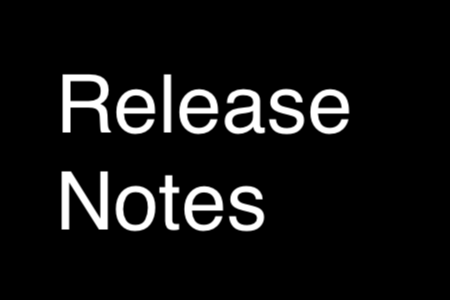
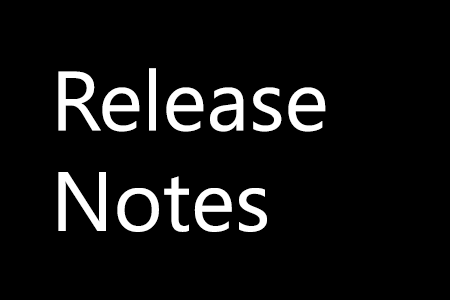
Removed en-us from the URL. Updated 'Release Notes' image with proper font.

Changed region(s): [[0.1244, 0.21, 0.7778, 0.45], [0.1244, 0.57, 0.5911, 0.78]]

diff --git a/README.md b/README.md
@@ -41,7 +41,7 @@ If you're an experienced Mixed Reality or MRTK developer, check the links in the
 
 # Documentation
 
-| [![Release notes](Documentation/Images/MRTK_Icon_ReleaseNotes.png)](https://docs.microsoft.com/en-us/windows/mixed-reality/mrtk-unity/release-notes/mrtk-26-release-notes)<br/>[Release Notes](https://docs.microsoft.com/en-us/windows/mixed-reality/mrtk-unity/release-notes/mrtk-26-release-notes)| [![MRTK Overview](Documentation/Images/MRTK_Icon_ArchitectureOverview.png)](https://docs.microsoft.com/en-us/windows/mixed-reality/mrtk-unity/architecture/overview)<br/>[MRTK Overview](https://docs.microsoft.com/en-us/windows/mixed-reality/mrtk-unity/architecture/overview)| [![Feature Guides](Documentation/Images/MRTK_Icon_FeatureGuides.png)](https://docs.microsoft.com/en-us/windows/mixed-reality/mrtk-unity/features/ux-building-blocks/button)<br/>[Feature Guides](https://docs.microsoft.com/en-us/windows/mixed-reality/mrtk-unity/features/ux-building-blocks/button)| [![API Reference](Documentation/Images/MRTK_Icon_APIReference.png)](https://docs.microsoft.com/en-us/dotnet/api/Microsoft.MixedReality.Toolkit?view=mixed-reality-toolkit-unity-2020-dotnet-2.6.0)<br/>[API Reference](https://docs.microsoft.com/en-us/dotnet/api/Microsoft.MixedReality.Toolkit?view=mixed-reality-toolkit-unity-2020-dotnet-2.6.0)|
+| [![Release notes](Documentation/Images/MRTK_Icon_ReleaseNotes.png)](https://docs.microsoft.com/windows/mixed-reality/mrtk-unity/release-notes/mrtk-26-release-notes)<br/>[Release Notes](https://docs.microsoft.com/windows/mixed-reality/mrtk-unity/release-notes/mrtk-26-release-notes)| [![MRTK Overview](Documentation/Images/MRTK_Icon_ArchitectureOverview.png)](https://docs.microsoft.com/windows/mixed-reality/mrtk-unity/architecture/overview)<br/>[MRTK Overview](https://docs.microsoft.com/windows/mixed-reality/mrtk-unity/architecture/overview)| [![Feature Guides](Documentation/Images/MRTK_Icon_FeatureGuides.png)](https://docs.microsoft.com/windows/mixed-reality/mrtk-unity/features/ux-building-blocks/button)<br/>[Feature Guides](https://docs.microsoft.com/windows/mixed-reality/mrtk-unity/features/ux-building-blocks/button)| [![API Reference](Documentation/Images/MRTK_Icon_APIReference.png)](https://docs.microsoft.com/dotnet/api/Microsoft.MixedReality.Toolkit?view=mixed-reality-toolkit-unity-2020-dotnet-2.6.0)<br/>[API Reference](https://docs.microsoft.com/dotnet/api/Microsoft.MixedReality.Toolkit?view=mixed-reality-toolkit-unity-2020-dotnet-2.6.0)|
 |:---|:---|:---|:---|
 
 # Build status
@@ -58,36 +58,36 @@ If you're an experienced Mixed Reality or MRTK developer, check the links in the
 
 # Feature areas
 
-| ![Input System](Documentation/Images/MRTK_Icon_InputSystem.png) [Input System](https://docs.microsoft.com/en-us/windows/mixed-reality/mrtk-unity/features/input/overview)<br/>&nbsp;  | ![Hand Tracking<br/> (HoloLens 2)](Documentation/Images/MRTK_Icon_HandTracking.png) [Hand Tracking<br/> (HoloLens 2)](https://docs.microsoft.com/en-us/windows/mixed-reality/mrtk-unity/features/input/hand-tracking) | ![Eye Tracking<br/> (HoloLens 2)](Documentation/Images/MRTK_Icon_EyeTracking.png) [Eye Tracking<br/> (HoloLens 2)](https://docs.microsoft.com/en-us/windows/mixed-reality/mrtk-unity/features/input/eye-tracking/eye-tracking-main) | ![Profiles](Documentation/Images/MRTK_Icon_Profiles.png) [Profiles](https://docs.microsoft.com/en-us/windows/mixed-reality/mrtk-unity/configuration/mixed-reality-configuration-guide)<br/>&nbsp; | ![Hand Tracking<br/> (Ultraleap)](Documentation/Images/MRTK_Icon_HandTracking.png) [Hand Tracking (Ultraleap)](https://docs.microsoft.com/en-us/windows/mixed-reality/mrtk-unity/features/cross-platform/leap-motion-mrtk)|
+| ![Input System](Documentation/Images/MRTK_Icon_InputSystem.png) [Input System](https://docs.microsoft.com/windows/mixed-reality/mrtk-unity/features/input/overview)<br/>&nbsp;  | ![Hand Tracking<br/> (HoloLens 2)](Documentation/Images/MRTK_Icon_HandTracking.png) [Hand Tracking<br/> (HoloLens 2)](https://docs.microsoft.com/windows/mixed-reality/mrtk-unity/features/input/hand-tracking) | ![Eye Tracking<br/> (HoloLens 2)](Documentation/Images/MRTK_Icon_EyeTracking.png) [Eye Tracking<br/> (HoloLens 2)](https://docs.microsoft.com/windows/mixed-reality/mrtk-unity/features/input/eye-tracking/eye-tracking-main) | ![Profiles](Documentation/Images/MRTK_Icon_Profiles.png) [Profiles](https://docs.microsoft.com/windows/mixed-reality/mrtk-unity/configuration/mixed-reality-configuration-guide)<br/>&nbsp; | ![Hand Tracking<br/> (Ultraleap)](Documentation/Images/MRTK_Icon_HandTracking.png) [Hand Tracking (Ultraleap)](https://docs.microsoft.com/windows/mixed-reality/mrtk-unity/features/cross-platform/leap-motion-mrtk)|
 | :--- | :--- | :--- | :--- | :--- |
-| ![UI Controls](Documentation/Images/MRTK_Icon_UIControls.png) [UI Controls](https://docs.microsoft.com/en-us/windows/mixed-reality/mrtk-unity/#ux-building-blocks)<br/>&nbsp; | ![Solvers](Documentation/Images/MRTK_Icon_Solver.png) [Solvers](https://docs.microsoft.com/en-us/windows/mixed-reality/mrtk-unity/features/ux-building-blocks/solvers/solver)<br/>&nbsp; | ![Multi-Scene<br/> Manager](Documentation/Images/MRTK_Icon_SceneSystem.png) [Multi-Scene<br/> Manager](https://docs.microsoft.com/en-us/windows/mixed-reality/mrtk-unity/features/scene-system/scene-system-getting-started) | ![Spatial<br/> Awareness](Documentation/Images/MRTK_Icon_SpatialUnderstanding.png) [Spatial<br/> Awareness](https://docs.microsoft.com/en-us/windows/mixed-reality/mrtk-unity/features/spatial-awareness/spatial-awareness-getting-started) | ![Diagnostic<br/> Tool](Documentation/Images/MRTK_Icon_Diagnostics.png) [Diagnostic<br/> Tool](https://docs.microsoft.com/en-us/windows/mixed-reality/mrtk-unity/features/diagnostics/diagnostics-system-getting-started) |
-| ![MRTK Standard Shader](Documentation/Images/MRTK_Icon_StandardShader.png) [MRTK Standard Shader](https://docs.microsoft.com/en-us/windows/mixed-reality/mrtk-unity/features/rendering/mrtk-standard-shader) | ![Speech & Dictation](Documentation/Images/MRTK_Icon_VoiceCommand.png) [Speech](https://docs.microsoft.com/en-us/windows/mixed-reality/mrtk-unity/features/input/speech)<br/> & [Dictation](https://docs.microsoft.com/en-us/windows/mixed-reality/mrtk-unity/features/input/dictation) | ![Boundary<br/>System](Documentation/Images/MRTK_Icon_Boundary.png) [Boundary<br/>System](https://docs.microsoft.com/en-us/windows/mixed-reality/mrtk-unity/features/boundary/boundary-system-getting-started)| ![In-Editor<br/>Simulation](Documentation/Images/MRTK_Icon_InputSystem.png) [In-Editor<br/>Simulation](https://docs.microsoft.com/en-us/windows/mixed-reality/mrtk-unity/features/input-simulation/input-simulation-service) | ![Experimental<br/>Features](Documentation/Images/MRTK_Icon_Experimental.png) [Experimental<br/>Features](https://docs.microsoft.com/en-us/windows/mixed-reality/mrtk-unity/contributing/experimental-features)|
+| ![UI Controls](Documentation/Images/MRTK_Icon_UIControls.png) [UI Controls](https://docs.microsoft.com/windows/mixed-reality/mrtk-unity/#ux-building-blocks)<br/>&nbsp; | ![Solvers](Documentation/Images/MRTK_Icon_Solver.png) [Solvers](https://docs.microsoft.com/windows/mixed-reality/mrtk-unity/features/ux-building-blocks/solvers/solver)<br/>&nbsp; | ![Multi-Scene<br/> Manager](Documentation/Images/MRTK_Icon_SceneSystem.png) [Multi-Scene<br/> Manager](https://docs.microsoft.com/windows/mixed-reality/mrtk-unity/features/scene-system/scene-system-getting-started) | ![Spatial<br/> Awareness](Documentation/Images/MRTK_Icon_SpatialUnderstanding.png) [Spatial<br/> Awareness](https://docs.microsoft.com/windows/mixed-reality/mrtk-unity/features/spatial-awareness/spatial-awareness-getting-started) | ![Diagnostic<br/> Tool](Documentation/Images/MRTK_Icon_Diagnostics.png) [Diagnostic<br/> Tool](https://docs.microsoft.com/windows/mixed-reality/mrtk-unity/features/diagnostics/diagnostics-system-getting-started) |
+| ![MRTK Standard Shader](Documentation/Images/MRTK_Icon_StandardShader.png) [MRTK Standard Shader](https://docs.microsoft.com/windows/mixed-reality/mrtk-unity/features/rendering/mrtk-standard-shader) | ![Speech & Dictation](Documentation/Images/MRTK_Icon_VoiceCommand.png) [Speech](https://docs.microsoft.com/windows/mixed-reality/mrtk-unity/features/input/speech)<br/> & [Dictation](https://docs.microsoft.com/windows/mixed-reality/mrtk-unity/features/input/dictation) | ![Boundary<br/>System](Documentation/Images/MRTK_Icon_Boundary.png) [Boundary<br/>System](https://docs.microsoft.com/windows/mixed-reality/mrtk-unity/features/boundary/boundary-system-getting-started)| ![In-Editor<br/>Simulation](Documentation/Images/MRTK_Icon_InputSystem.png) [In-Editor<br/>Simulation](https://docs.microsoft.com/windows/mixed-reality/mrtk-unity/features/input-simulation/input-simulation-service) | ![Experimental<br/>Features](Documentation/Images/MRTK_Icon_Experimental.png) [Experimental<br/>Features](https://docs.microsoft.com/windows/mixed-reality/mrtk-unity/contributing/experimental-features)|
 
 # UX building blocks
 
-|  [![Button](Documentation/Images/Button/MRTK_Button_Main.png)](https://docs.microsoft.com/en-us/windows/mixed-reality/mrtk-unity/features/ux-building-blocks/button) [Button](https://docs.microsoft.com/en-us/windows/mixed-reality/mrtk-unity/features/ux-building-blocks/button) | [![Bounds Control](Documentation/Images/BoundsControl/MRTK_BoundsControl_Main.png)](https://docs.microsoft.com/en-us/windows/mixed-reality/mrtk-unity/features/ux-building-blocks/bounds-control) [Bounds Control](https://docs.microsoft.com/en-us/windows/mixed-reality/mrtk-unity/features/ux-building-blocks/bounds-control) | [![Object Manipulator](Documentation/Images/ManipulationHandler/MRTK_Manipulation_Main.png)](https://docs.microsoft.com/en-us/windows/mixed-reality/mrtk-unity/features/ux-building-blocks/object-manipulator) [Object Manipulator](https://docs.microsoft.com/en-us/windows/mixed-reality/mrtk-unity/features/ux-building-blocks/object-manipulator) |
+|  [![Button](Documentation/Images/Button/MRTK_Button_Main.png)](https://docs.microsoft.com/windows/mixed-reality/mrtk-unity/features/ux-building-blocks/button) [Button](https://docs.microsoft.com/windows/mixed-reality/mrtk-unity/features/ux-building-blocks/button) | [![Bounds Control](Documentation/Images/BoundsControl/MRTK_BoundsControl_Main.png)](https://docs.microsoft.com/windows/mixed-reality/mrtk-unity/features/ux-building-blocks/bounds-control) [Bounds Control](https://docs.microsoft.com/windows/mixed-reality/mrtk-unity/features/ux-building-blocks/bounds-control) | [![Object Manipulator](Documentation/Images/ManipulationHandler/MRTK_Manipulation_Main.png)](https://docs.microsoft.com/windows/mixed-reality/mrtk-unity/features/ux-building-blocks/object-manipulator) [Object Manipulator](https://docs.microsoft.com/windows/mixed-reality/mrtk-unity/features/ux-building-blocks/object-manipulator) |
 |:--- | :--- | :--- |
 | A button control which supports various input methods, including HoloLens 2's articulated hand | Standard UI for manipulating objects in 3D space | Script for manipulating objects with one or two hands |
-|  [![Slate](Documentation/Images/Slate/MRTK_Slate_Main.png)](https://docs.microsoft.com/en-us/windows/mixed-reality/mrtk-unity/features/ux-building-blocks/slate) [Slate](https://docs.microsoft.com/en-us/windows/mixed-reality/mrtk-unity/features/ux-building-blocks/slate) | [![System Keyboard](Documentation/Images/SystemKeyboard/MRTK_SystemKeyboard_Main.png)](https://docs.microsoft.com/en-us/windows/mixed-reality/mrtk-unity/features/ux-building-blocks/system-keyboard) [System Keyboard](https://docs.microsoft.com/en-us/windows/mixed-reality/mrtk-unity/features/ux-building-blocks/system-keyboard) | [![Interactable](Documentation/Images/Interactable/InteractableExamples.png)](https://docs.microsoft.com/en-us/windows/mixed-reality/mrtk-unity/features/ux-building-blocks/interactable) [Interactable](https://docs.microsoft.com/en-us/windows/mixed-reality/mrtk-unity/features/ux-building-blocks/interactable) |
+|  [![Slate](Documentation/Images/Slate/MRTK_Slate_Main.png)](https://docs.microsoft.com/windows/mixed-reality/mrtk-unity/features/ux-building-blocks/slate) [Slate](https://docs.microsoft.com/windows/mixed-reality/mrtk-unity/features/ux-building-blocks/slate) | [![System Keyboard](Documentation/Images/SystemKeyboard/MRTK_SystemKeyboard_Main.png)](https://docs.microsoft.com/windows/mixed-reality/mrtk-unity/features/ux-building-blocks/system-keyboard) [System Keyboard](https://docs.microsoft.com/windows/mixed-reality/mrtk-unity/features/ux-building-blocks/system-keyboard) | [![Interactable](Documentation/Images/Interactable/InteractableExamples.png)](https://docs.microsoft.com/windows/mixed-reality/mrtk-unity/features/ux-building-blocks/interactable) [Interactable](https://docs.microsoft.com/windows/mixed-reality/mrtk-unity/features/ux-building-blocks/interactable) |
 | 2D style plane which supports scrolling with articulated hand input | Example script of using the system keyboard in Unity  | A script for making objects interactable with visual states and theme support |
-|  [![Solver](Documentation/Images/Solver/MRTK_Solver_Main.png)](https://docs.microsoft.com/en-us/windows/mixed-reality/mrtk-unity/features/ux-building-blocks/solvers/solver) [Solver](https://docs.microsoft.com/en-us/windows/mixed-reality/mrtk-unity/features/ux-building-blocks/solvers/solver) | [![Object Collection](Documentation/Images/ObjectCollection/MRTK_ObjectCollection_Main.jpg)](https://docs.microsoft.com/en-us/windows/mixed-reality/mrtk-unity/features/ux-building-blocks/object-collection) [Object Collection](https://docs.microsoft.com/en-us/windows/mixed-reality/mrtk-unity/features/ux-building-blocks/object-collection) | [![Tooltip](Documentation/Images/Tooltip/MRTK_Tooltip_Main.png)](https://docs.microsoft.com/en-us/windows/mixed-reality/mrtk-unity/features/ux-building-blocks/tooltip) [Tooltip](https://docs.microsoft.com/en-us/windows/mixed-reality/mrtk-unity/features/ux-building-blocks/tooltip) |
+|  [![Solver](Documentation/Images/Solver/MRTK_Solver_Main.png)](https://docs.microsoft.com/windows/mixed-reality/mrtk-unity/features/ux-building-blocks/solvers/solver) [Solver](https://docs.microsoft.com/windows/mixed-reality/mrtk-unity/features/ux-building-blocks/solvers/solver) | [![Object Collection](Documentation/Images/ObjectCollection/MRTK_ObjectCollection_Main.jpg)](https://docs.microsoft.com/windows/mixed-reality/mrtk-unity/features/ux-building-blocks/object-collection) [Object Collection](https://docs.microsoft.com/windows/mixed-reality/mrtk-unity/features/ux-building-blocks/object-collection) | [![Tooltip](Documentation/Images/Tooltip/MRTK_Tooltip_Main.png)](https://docs.microsoft.com/windows/mixed-reality/mrtk-unity/features/ux-building-blocks/tooltip) [Tooltip](https://docs.microsoft.com/windows/mixed-reality/mrtk-unity/features/ux-building-blocks/tooltip) |
 | Various object positioning behaviors such as tag-along, body-lock, constant view size and surface magnetism | Script for laying out an array of objects in a three-dimensional shape | Annotation UI with a flexible anchor/pivot system, which can be used for labeling motion controllers and objects |
-|  [![Slider](Documentation/Images/Slider/MRTK_UX_Slider_Main.jpg)](https://docs.microsoft.com/en-us/windows/mixed-reality/mrtk-unity/features/ux-building-blocks/sliders) [Slider](https://docs.microsoft.com/en-us/windows/mixed-reality/mrtk-unity/features/ux-building-blocks/sliders) | [![MRTK Standard Shader](Documentation/Images/MRTKStandardShader/MRTK_StandardShader.jpg)](https://docs.microsoft.com/en-us/windows/mixed-reality/mrtk-unity/features/rendering/mrtk-standard-shader) [MRTK Standard Shader](https://docs.microsoft.com/en-us/windows/mixed-reality/mrtk-unity/features/rendering/mrtk-standard-shader) | [![Hand Menu](Documentation/Images/Solver/MRTK_UX_HandMenu.png)](https://docs.microsoft.com/en-us/windows/mixed-reality/mrtk-unity/features/ux-building-blocks/hand-menu) [Hand Menu](https://docs.microsoft.com/en-us/windows/mixed-reality/mrtk-unity/features/ux-building-blocks/hand-menu) |
+|  [![Slider](Documentation/Images/Slider/MRTK_UX_Slider_Main.jpg)](https://docs.microsoft.com/windows/mixed-reality/mrtk-unity/features/ux-building-blocks/sliders) [Slider](https://docs.microsoft.com/windows/mixed-reality/mrtk-unity/features/ux-building-blocks/sliders) | [![MRTK Standard Shader](Documentation/Images/MRTKStandardShader/MRTK_StandardShader.jpg)](https://docs.microsoft.com/windows/mixed-reality/mrtk-unity/features/rendering/mrtk-standard-shader) [MRTK Standard Shader](https://docs.microsoft.com/windows/mixed-reality/mrtk-unity/features/rendering/mrtk-standard-shader) | [![Hand Menu](Documentation/Images/Solver/MRTK_UX_HandMenu.png)](https://docs.microsoft.com/windows/mixed-reality/mrtk-unity/features/ux-building-blocks/hand-menu) [Hand Menu](https://docs.microsoft.com/windows/mixed-reality/mrtk-unity/features/ux-building-blocks/hand-menu) |
 | Slider UI for adjusting values supporting direct hand tracking interaction | MRTK's Standard shader supports various Fluent design elements with performance | Hand-locked UI for quick access, using the Hand Constraint Solver |
-|  [![App Bar](Documentation/Images/AppBar/MRTK_AppBar_Main.png)](https://docs.microsoft.com/en-us/windows/mixed-reality/mrtk-unity/features/ux-building-blocks/app-bar) [App Bar](https://docs.microsoft.com/en-us/windows/mixed-reality/mrtk-unity/features/ux-building-blocks/app-bar) | [![Pointers](Documentation/Images/Pointers/MRTK_Pointer_Main.png)](https://docs.microsoft.com/en-us/windows/mixed-reality/mrtk-unity/features/input/pointers) [Pointers](https://docs.microsoft.com/en-us/windows/mixed-reality/mrtk-unity/features/input/pointers) | [![Fingertip Visualization](Documentation/Images/Fingertip/MRTK_FingertipVisualization_Main.png)](https://docs.microsoft.com/en-us/windows/mixed-reality/mrtk-unity/features/ux-building-blocks/fingertip-visualization) [Fingertip Visualization](https://docs.microsoft.com/en-us/windows/mixed-reality/mrtk-unity/features/ux-building-blocks/fingertip-visualization) |
+|  [![App Bar](Documentation/Images/AppBar/MRTK_AppBar_Main.png)](https://docs.microsoft.com/windows/mixed-reality/mrtk-unity/features/ux-building-blocks/app-bar) [App Bar](https://docs.microsoft.com/windows/mixed-reality/mrtk-unity/features/ux-building-blocks/app-bar) | [![Pointers](Documentation/Images/Pointers/MRTK_Pointer_Main.png)](https://docs.microsoft.com/windows/mixed-reality/mrtk-unity/features/input/pointers) [Pointers](https://docs.microsoft.com/windows/mixed-reality/mrtk-unity/features/input/pointers) | [![Fingertip Visualization](Documentation/Images/Fingertip/MRTK_FingertipVisualization_Main.png)](https://docs.microsoft.com/windows/mixed-reality/mrtk-unity/features/ux-building-blocks/fingertip-visualization) [Fingertip Visualization](https://docs.microsoft.com/windows/mixed-reality/mrtk-unity/features/ux-building-blocks/fingertip-visualization) |
 | UI for Bounds Control's manual activation | Learn about various types of pointers | Visual affordance on the fingertip which improves the confidence for the direct interaction |
-|  [![Near Menu](Documentation/Images/NearMenu/MRTK_UX_NearMenu.png)](https://docs.microsoft.com/en-us/windows/mixed-reality/mrtk-unity/features/ux-building-blocks/near-menu) [Near Menu](https://docs.microsoft.com/en-us/windows/mixed-reality/mrtk-unity/features/ux-building-blocks/near-menu) | [![Spatial Awareness](Documentation/Images/SpatialAwareness/MRTK_SpatialAwareness_Main.png)](https://docs.microsoft.com/en-us/windows/mixed-reality/mrtk-unity/features/spatial-awareness/spatial-awareness-getting-started) [Spatial Awareness](https://docs.microsoft.com/en-us/windows/mixed-reality/mrtk-unity/features/spatial-awareness/spatial-awareness-getting-started) | [![Voice Command](Documentation/Images/Input/MRTK_Input_Speech.png)](https://docs.microsoft.com/en-us/windows/mixed-reality/mrtk-unity/features/input/speech) [Voice Command](https://docs.microsoft.com/en-us/windows/mixed-reality/mrtk-unity/features/input/speech) / [Dictation](https://docs.microsoft.com/en-us/windows/mixed-reality/mrtk-unity/features/input/dictation) |
+|  [![Near Menu](Documentation/Images/NearMenu/MRTK_UX_NearMenu.png)](https://docs.microsoft.com/windows/mixed-reality/mrtk-unity/features/ux-building-blocks/near-menu) [Near Menu](https://docs.microsoft.com/windows/mixed-reality/mrtk-unity/features/ux-building-blocks/near-menu) | [![Spatial Awareness](Documentation/Images/SpatialAwareness/MRTK_SpatialAwareness_Main.png)](https://docs.microsoft.com/windows/mixed-reality/mrtk-unity/features/spatial-awareness/spatial-awareness-getting-started) [Spatial Awareness](https://docs.microsoft.com/windows/mixed-reality/mrtk-unity/features/spatial-awareness/spatial-awareness-getting-started) | [![Voice Command](Documentation/Images/Input/MRTK_Input_Speech.png)](https://docs.microsoft.com/windows/mixed-reality/mrtk-unity/features/input/speech) [Voice Command](https://docs.microsoft.com/windows/mixed-reality/mrtk-unity/features/input/speech) / [Dictation](https://docs.microsoft.com/windows/mixed-reality/mrtk-unity/features/input/dictation) |
 | Floating menu UI for the near interactions | Make your holographic objects interact with the physical environments | Scripts and examples for integrating speech input |
-|  [![Progress Indicator](Documentation/Images/ProgressIndicator/MRTK_ProgressIndicator_Main.png)](https://docs.microsoft.com/en-us/windows/mixed-reality/mrtk-unity/features/ux-building-blocks/progress-indicator) [Progress Indicator](https://docs.microsoft.com/en-us/windows/mixed-reality/mrtk-unity/features/ux-building-blocks/progress-indicator) | [![Dialog](Documentation/Images/Dialog/MRTK_UX_Dialog_Main.png)](https://docs.microsoft.com/en-us/windows/mixed-reality/mrtk-unity/features/ux-building-blocks/dialog) [Dialog [Experimental]](https://docs.microsoft.com/en-us/windows/mixed-reality/mrtk-unity/features/ux-building-blocks/dialog) | [![Hand Coach](Documentation/Images/HandCoach/MRTK_UX_HandCoach_Main.jpg)](https://docs.microsoft.com/en-us/windows/mixed-reality/mrtk-unity/features/ux-building-blocks/hand-coach) [Hand Coach](https://docs.microsoft.com/en-us/windows/mixed-reality/mrtk-unity/features/ux-building-blocks/hand-coach) |
+|  [![Progress Indicator](Documentation/Images/ProgressIndicator/MRTK_ProgressIndicator_Main.png)](https://docs.microsoft.com/windows/mixed-reality/mrtk-unity/features/ux-building-blocks/progress-indicator) [Progress Indicator](https://docs.microsoft.com/windows/mixed-reality/mrtk-unity/features/ux-building-blocks/progress-indicator) | [![Dialog](Documentation/Images/Dialog/MRTK_UX_Dialog_Main.png)](https://docs.microsoft.com/windows/mixed-reality/mrtk-unity/features/ux-building-blocks/dialog) [Dialog [Experimental]](https://docs.microsoft.com/windows/mixed-reality/mrtk-unity/features/ux-building-blocks/dialog) | [![Hand Coach](Documentation/Images/HandCoach/MRTK_UX_HandCoach_Main.jpg)](https://docs.microsoft.com/windows/mixed-reality/mrtk-unity/features/ux-building-blocks/hand-coach) [Hand Coach](https://docs.microsoft.com/windows/mixed-reality/mrtk-unity/features/ux-building-blocks/hand-coach) |
 | Visual indicator for communicating data process or operation | UI for asking for user's confirmation or acknowledgement  | Component that helps guide the user when the gesture has not been taught |
-|  [![Hand Physics Service](Documentation/Images/HandPhysics/MRTK_UX_HandPhysics_Main.jpg)](https://docs.microsoft.com/en-us/windows/mixed-reality/mrtk-unity/features/experimental/hand-physics-service) [Hand Physics Service [Experimental]](https://docs.microsoft.com/en-us/windows/mixed-reality/mrtk-unity/features/experimental/hand-physics-service) | [![Scrolling Collection](Documentation/Images/ScrollingCollection/ScrollingCollection_Main.jpg)](https://docs.microsoft.com/en-us/windows/mixed-reality/mrtk-unity/features/ux-building-blocks/scrolling-object-collection) [Scrolling Collection](https://docs.microsoft.com/en-us/windows/mixed-reality/mrtk-unity/features/ux-building-blocks/scrolling-object-collection) | [![Dock](Documentation/Images/Dock/MRTK_UX_Dock_Main.png)](https://docs.microsoft.com/en-us/windows/mixed-reality/mrtk-unity/features/experimental/dock) [Dock [Experimental]](https://docs.microsoft.com/en-us/windows/mixed-reality/mrtk-unity/features/experimental/dock) |
+|  [![Hand Physics Service](Documentation/Images/HandPhysics/MRTK_UX_HandPhysics_Main.jpg)](https://docs.microsoft.com/windows/mixed-reality/mrtk-unity/features/experimental/hand-physics-service) [Hand Physics Service [Experimental]](https://docs.microsoft.com/windows/mixed-reality/mrtk-unity/features/experimental/hand-physics-service) | [![Scrolling Collection](Documentation/Images/ScrollingCollection/ScrollingCollection_Main.jpg)](https://docs.microsoft.com/windows/mixed-reality/mrtk-unity/features/ux-building-blocks/scrolling-object-collection) [Scrolling Collection](https://docs.microsoft.com/windows/mixed-reality/mrtk-unity/features/ux-building-blocks/scrolling-object-collection) | [![Dock](Documentation/Images/Dock/MRTK_UX_Dock_Main.png)](https://docs.microsoft.com/windows/mixed-reality/mrtk-unity/features/experimental/dock) [Dock [Experimental]](https://docs.microsoft.com/windows/mixed-reality/mrtk-unity/features/experimental/dock) |
 | The hand physics service enables rigid body collision events and interactions with articulated hands | An Object Collection that natively scrolls 3D objects | The Dock allows objects to be moved in and out of predetermined positions |
-|  [![Eye Tracking: Target Selection](Documentation/Images/EyeTracking/mrtk_et_targetselect.png)](https://docs.microsoft.com/en-us/windows/mixed-reality/mrtk-unity/features/input/eye-tracking/eye-tracking-target-selection) [Eye Tracking: Target Selection](https://docs.microsoft.com/en-us/windows/mixed-reality/mrtk-unity/features/input/eye-tracking/eye-tracking-target-selection) | [![Eye Tracking: Navigation](Documentation/Images/EyeTracking/mrtk_et_navigation.png)](https://docs.microsoft.com/en-us/windows/mixed-reality/mrtk-unity/features/input/eye-tracking/eye-tracking-navigation) [Eye Tracking: Navigation](https://docs.microsoft.com/en-us/windows/mixed-reality/mrtk-unity/features/input/eye-tracking/eye-tracking-navigation) | [![Eye Tracking: Heat Map](Documentation/Images/EyeTracking/mrtk_et_heatmaps.png)](https://docs.microsoft.com/en-us/windows/mixed-reality/mrtk-unity/features/example-scenes/eye-tracking-examples-overview#visualization-of-visual-attention) [Eye Tracking: Heat Map](https://docs.microsoft.com/en-us/windows/mixed-reality/mrtk-unity/features/example-scenes/eye-tracking-examples-overview#visualization-of-visual-attention) |
+|  [![Eye Tracking: Target Selection](Documentation/Images/EyeTracking/mrtk_et_targetselect.png)](https://docs.microsoft.com/windows/mixed-reality/mrtk-unity/features/input/eye-tracking/eye-tracking-target-selection) [Eye Tracking: Target Selection](https://docs.microsoft.com/windows/mixed-reality/mrtk-unity/features/input/eye-tracking/eye-tracking-target-selection) | [![Eye Tracking: Navigation](Documentation/Images/EyeTracking/mrtk_et_navigation.png)](https://docs.microsoft.com/windows/mixed-reality/mrtk-unity/features/input/eye-tracking/eye-tracking-navigation) [Eye Tracking: Navigation](https://docs.microsoft.com/windows/mixed-reality/mrtk-unity/features/input/eye-tracking/eye-tracking-navigation) | [![Eye Tracking: Heat Map](Documentation/Images/EyeTracking/mrtk_et_heatmaps.png)](https://docs.microsoft.com/windows/mixed-reality/mrtk-unity/features/example-scenes/eye-tracking-examples-overview#visualization-of-visual-attention) [Eye Tracking: Heat Map](https://docs.microsoft.com/windows/mixed-reality/mrtk-unity/features/example-scenes/eye-tracking-examples-overview#visualization-of-visual-attention) |
 | Combine eyes, voice and hand input to quickly and effortlessly select holograms across your scene | Learn how to auto-scroll text or fluently zoom into focused content based on what you are looking at | Examples for logging, loading and visualizing what users have been looking at in your app |
 
 # Tools
 
-|  [![Optimize Window](Documentation/Images/MRTK_Icon_OptimizeWindow.png)](https://docs.microsoft.com/en-us/windows/mixed-reality/mrtk-unity/features/tools/optimize-window) [Optimize Window](https://docs.microsoft.com/en-us/windows/mixed-reality/mrtk-unity/features/tools/optimize-window) | [![Dependency Window](Documentation/Images/MRTK_Icon_DependencyWindow.png)](https://docs.microsoft.com/en-us/windows/mixed-reality/mrtk-unity/features/tools/dependency-window) [Dependency Window](https://docs.microsoft.com/en-us/windows/mixed-reality/mrtk-unity/features/tools/dependency-window) | ![Build Window](Documentation/Images/MRTK_Icon_BuildWindow.png) Build Window | [![Input recording](Documentation/Images/MRTK_Icon_InputRecording.png)](https://docs.microsoft.com/en-us/windows/mixed-reality/mrtk-unity/features/input-simulation/input-animation-recording) [Input recording](https://docs.microsoft.com/en-us/windows/mixed-reality/mrtk-unity/features/input-simulation/input-animation-recording) |
+|  [![Optimize Window](Documentation/Images/MRTK_Icon_OptimizeWindow.png)](https://docs.microsoft.com/windows/mixed-reality/mrtk-unity/features/tools/optimize-window) [Optimize Window](https://docs.microsoft.com/windows/mixed-reality/mrtk-unity/features/tools/optimize-window) | [![Dependency Window](Documentation/Images/MRTK_Icon_DependencyWindow.png)](https://docs.microsoft.com/windows/mixed-reality/mrtk-unity/features/tools/dependency-window) [Dependency Window](https://docs.microsoft.com/windows/mixed-reality/mrtk-unity/features/tools/dependency-window) | ![Build Window](Documentation/Images/MRTK_Icon_BuildWindow.png) Build Window | [![Input recording](Documentation/Images/MRTK_Icon_InputRecording.png)](https://docs.microsoft.com/windows/mixed-reality/mrtk-unity/features/input-simulation/input-animation-recording) [Input recording](https://docs.microsoft.com/windows/mixed-reality/mrtk-unity/features/input-simulation/input-animation-recording) |
 |:--- | :--- | :--- | :--- |
 | Automate configuration of Mixed Reality projects for performance optimizations | Analyze dependencies between assets and identify unused assets |  Configure and execute an end-to-end build process for Mixed Reality applications | Record and playback head movement and hand tracking data in editor |
 
@@ -99,9 +99,9 @@ Explore MRTK's various types of interactions and UI controls through the example
 
 # MRTK examples hub
 
-With the MRTK Examples Hub, you can try various example scenes in MRTK. On HoloLens 2, you can download and install [MRTK Examples Hub through the Microsoft Store app](https://www.microsoft.com/en-us/p/mrtk-examples-hub/9mv8c39l2sj4).
+With the MRTK Examples Hub, you can try various example scenes in MRTK. On HoloLens 2, you can download and install [MRTK Examples Hub through the Microsoft Store app](https://www.microsoft.com/p/mrtk-examples-hub/9mv8c39l2sj4).
 
-See [Examples Hub README page](https://docs.microsoft.com/en-us/windows/mixed-reality/mrtk-unity/features/example-scenes/example-hub) to learn about the details on creating a multi-scene hub with MRTK's scene system and scene transition service.
+See [Examples Hub README page](https://docs.microsoft.com/windows/mixed-reality/mrtk-unity/features/example-scenes/example-hub) to learn about the details on creating a multi-scene hub with MRTK's scene system and scene transition service.
 
 [![Example Scene](Documentation/Images/MRTK_ExamplesHub.png)](Documentation/README_HandInteractionExamples.md)
 
@@ -117,7 +117,7 @@ See [Examples Hub README page](https://docs.microsoft.com/en-us/windows/mixed-re
 |:--- | :--- | :--- |
 | Tutorial on how to create a simple MRTK app from start to finish. Learn about interaction concepts and MRTK’s multi-platform capabilities. | Deep dive on the MRTK’s UX building blocks that help you build beautiful mixed reality experiences. | An introduction to performance tools, both in MRTK and external, as well as an overview of the MRTK Standard Shader.	 |
 
-See [Mixed Reality Dev Days](https://docs.microsoft.com/en-us/windows/mixed-reality/mr-dev-days-sessions) to explore more session videos.
+See [Mixed Reality Dev Days](https://docs.microsoft.com/windows/mixed-reality/mr-dev-days-sessions) to explore more session videos.
 
 # Engage with the community
 
